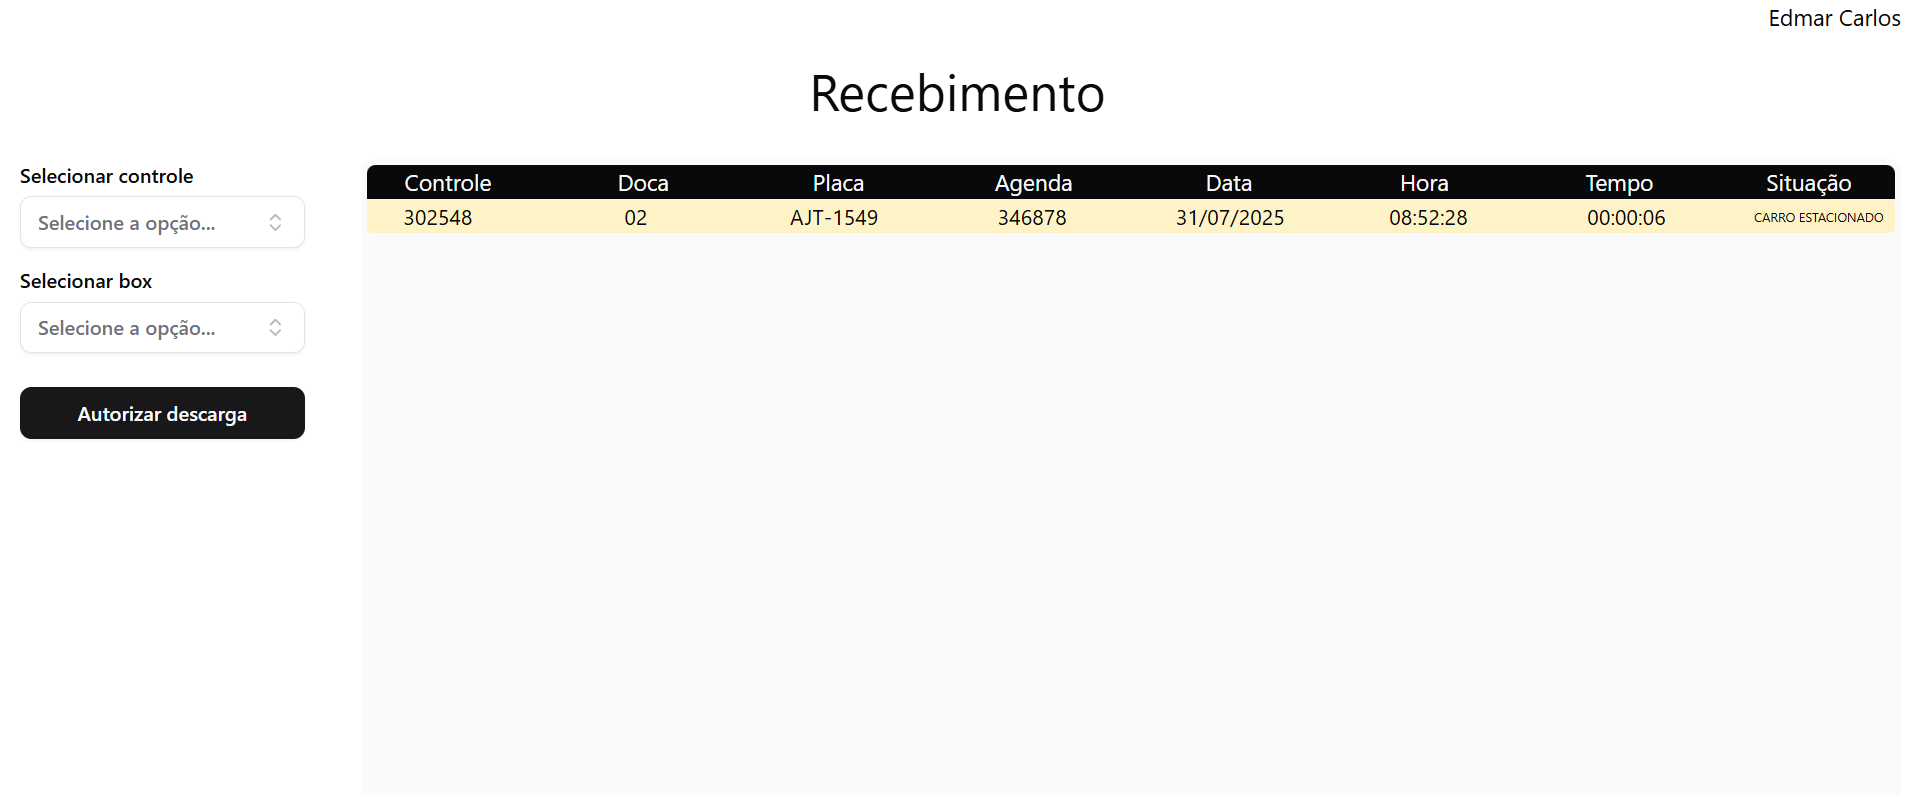
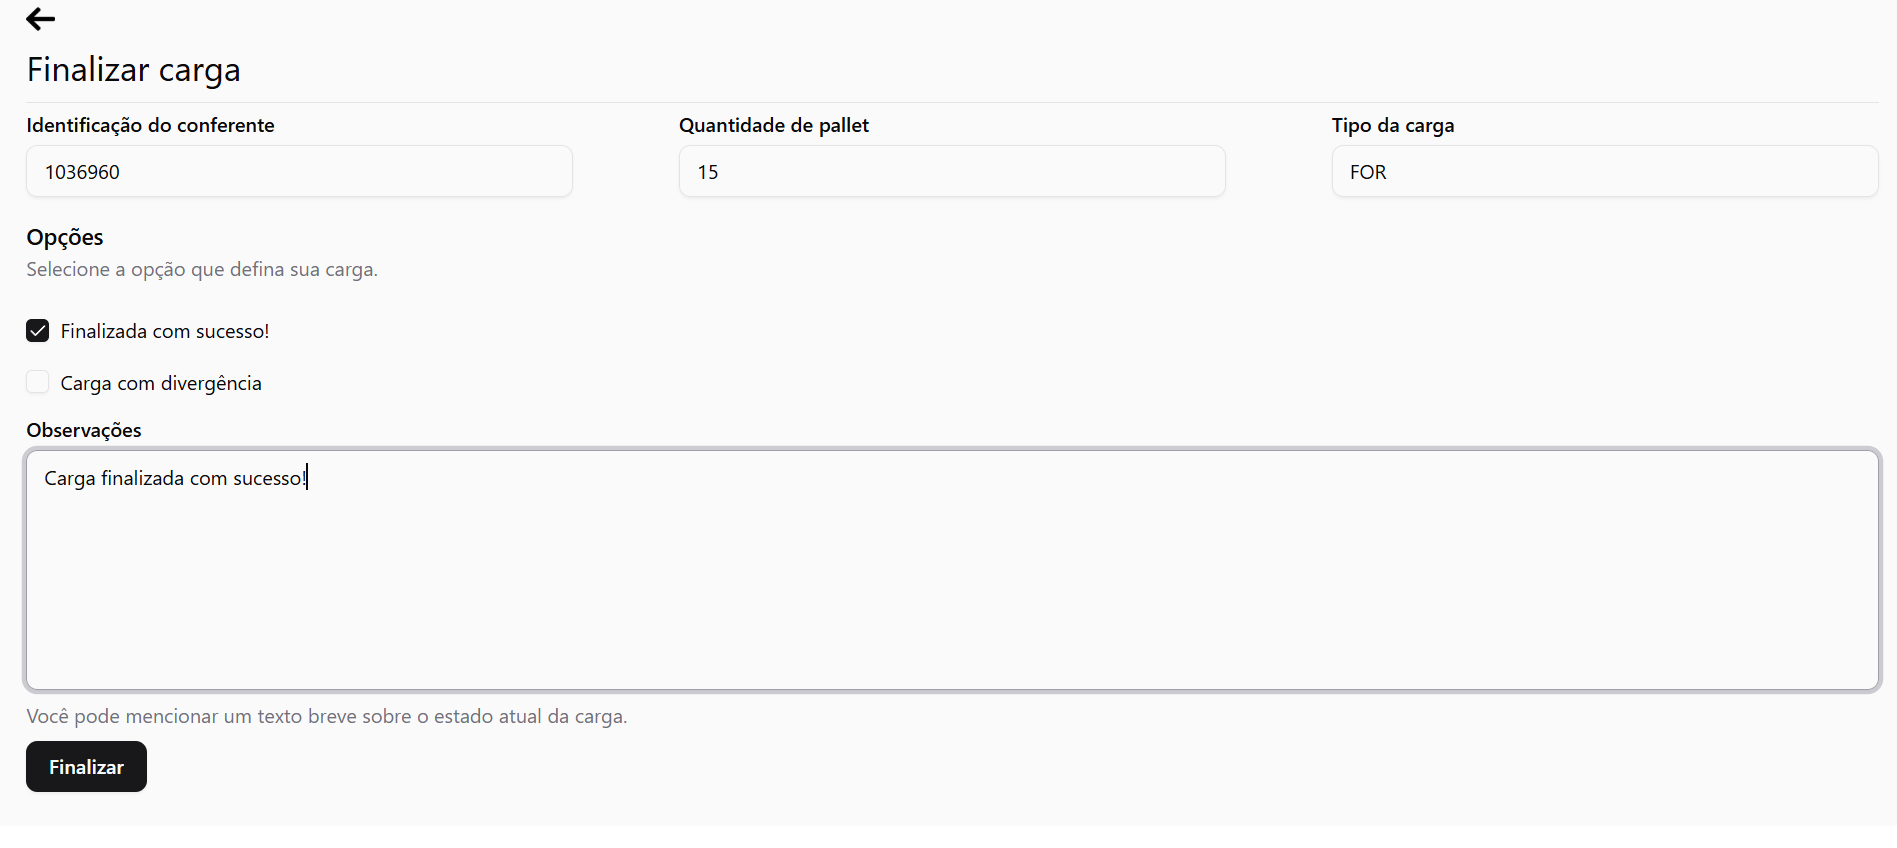
fix: padronizar tamanho das imagens no slideshow

diff --git a/app/components/Home.tsx b/app/components/Home.tsx
@@ -23,13 +23,13 @@ export default function HomeContent() {
         <div className="absolute inset-0 bg-zinc-900/60"></div>
         <Header />
         <div className="absolute z-10 flex flex-col w-full h-screen items-center justify-center">
-          <div className="h-96 flex flex-col items-center justify-center gap-4 text-zinc-50/80">
+          <div className="h-96 flex flex-col items-center justify-center gap-4 text-zinc-50/80 p-1">
             <h1 className="text-4xl md:text-6xl font-bold text-center">
-              Olá, eu sou Edmar
+              Transformando desafios operacionais em soluções digitais.
             </h1>
-            <p className="text-lg md:text-2xl text-blue-600/70 text-center mt-4">
-              Desenvolvedor Front-end e UI/UX Designer
-            </p>
+            <h2>
+              Tecnologia aplicada à operação. Soluções que geram resultados.
+            </h2>
           </div>
           <Icons />
         </div>        

diff --git a/app/components/server/carrossel.tsx b/app/components/server/carrossel.tsx
@@ -58,13 +58,13 @@ export default function Carrossel({ images, title, onClose }: CarrosselProps) {
                     ‹
                 </button>
 
-                <div className='relative w-full h-full flex items-center justify-center'>
+                <div className='relative w-full h-full overflow-hidden'>
                     <Image
                         src={currentImage.image}
                         alt={currentImage.title}
-                        width={1200}
-                        height={800}
-                        className='object-contain max-w-full max-h-full'
+                        fill
+                        sizes='(max-width: 768px) 100vw, 80vw'
+                        className='object-contain p-8'
                         priority
                     />
                 </div>
